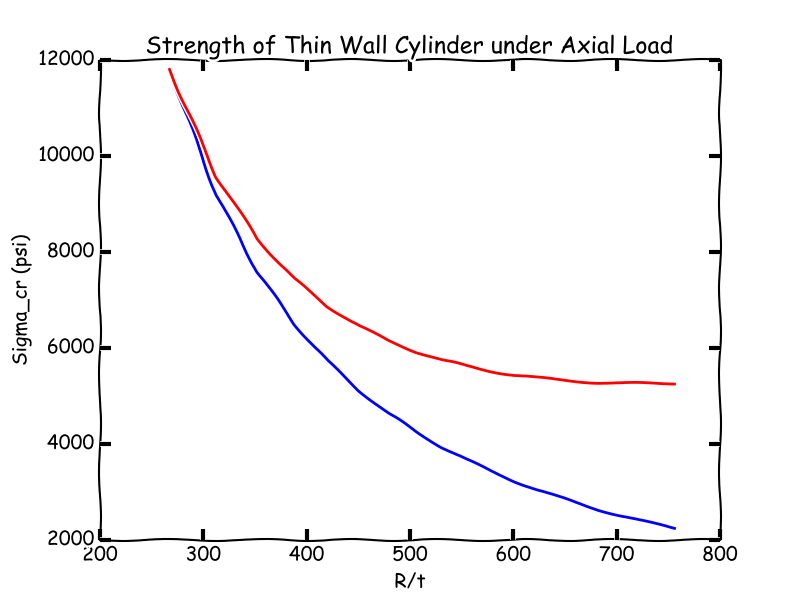
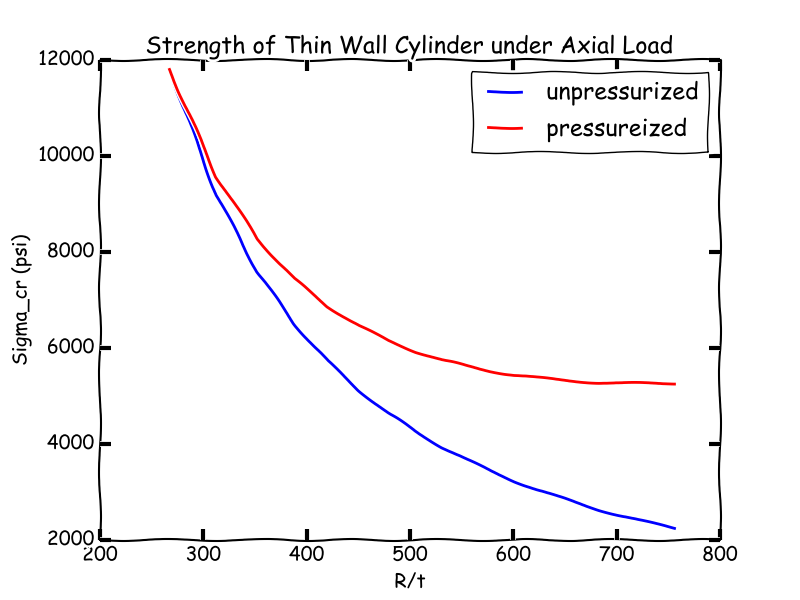
updating image

Changed region(s): [[0.5938, 0.12, 0.9062, 0.27], [0.5938, 0.12, 0.6562, 0.18], [0.5625, 0.12, 0.5938, 0.15]]

diff --git a/strength.py b/strength.py
@@ -73,11 +73,12 @@ class airframe(object):
 
     def plot_sigmacr_np_v_tR(self):
         with plt.xkcd():
-            plt.plot(self.Rtratio, self.sigmacr_np, 'b')
-            plt.plot(self.Rtratio, self.sigmacr_p, 'r')
+            plt.plot(self.Rtratio, self.sigmacr_np, 'b', label='unpressurized')
+            plt.plot(self.Rtratio, self.sigmacr_p, 'r', label='pressureized')
             plt.xlabel('R/t')
             plt.ylabel('Sigma_cr (psi)')
             plt.title('Strength of Thin Wall Cylinder under Axial Load')
+            plt.legend(loc='upper right')
             plt.savefig(os.path.join(os.getcwd(), 'AxialStrengthRt.png'))
             plt.show()
 
